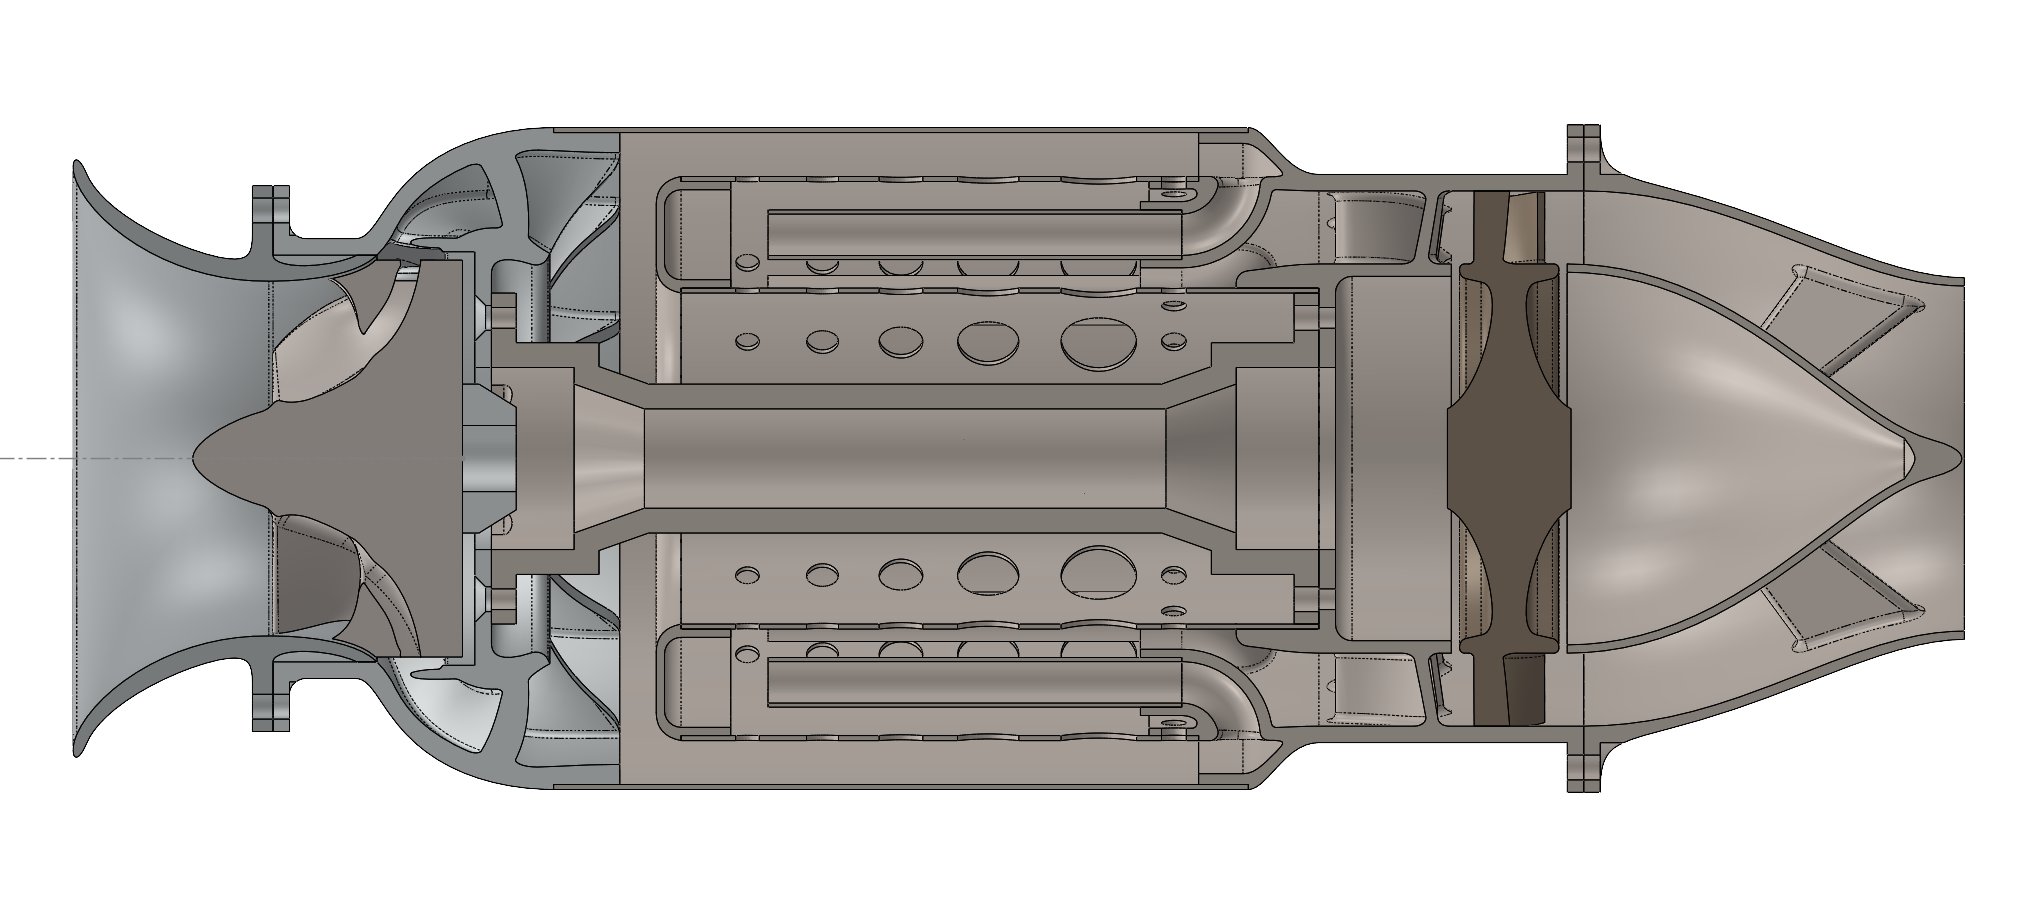
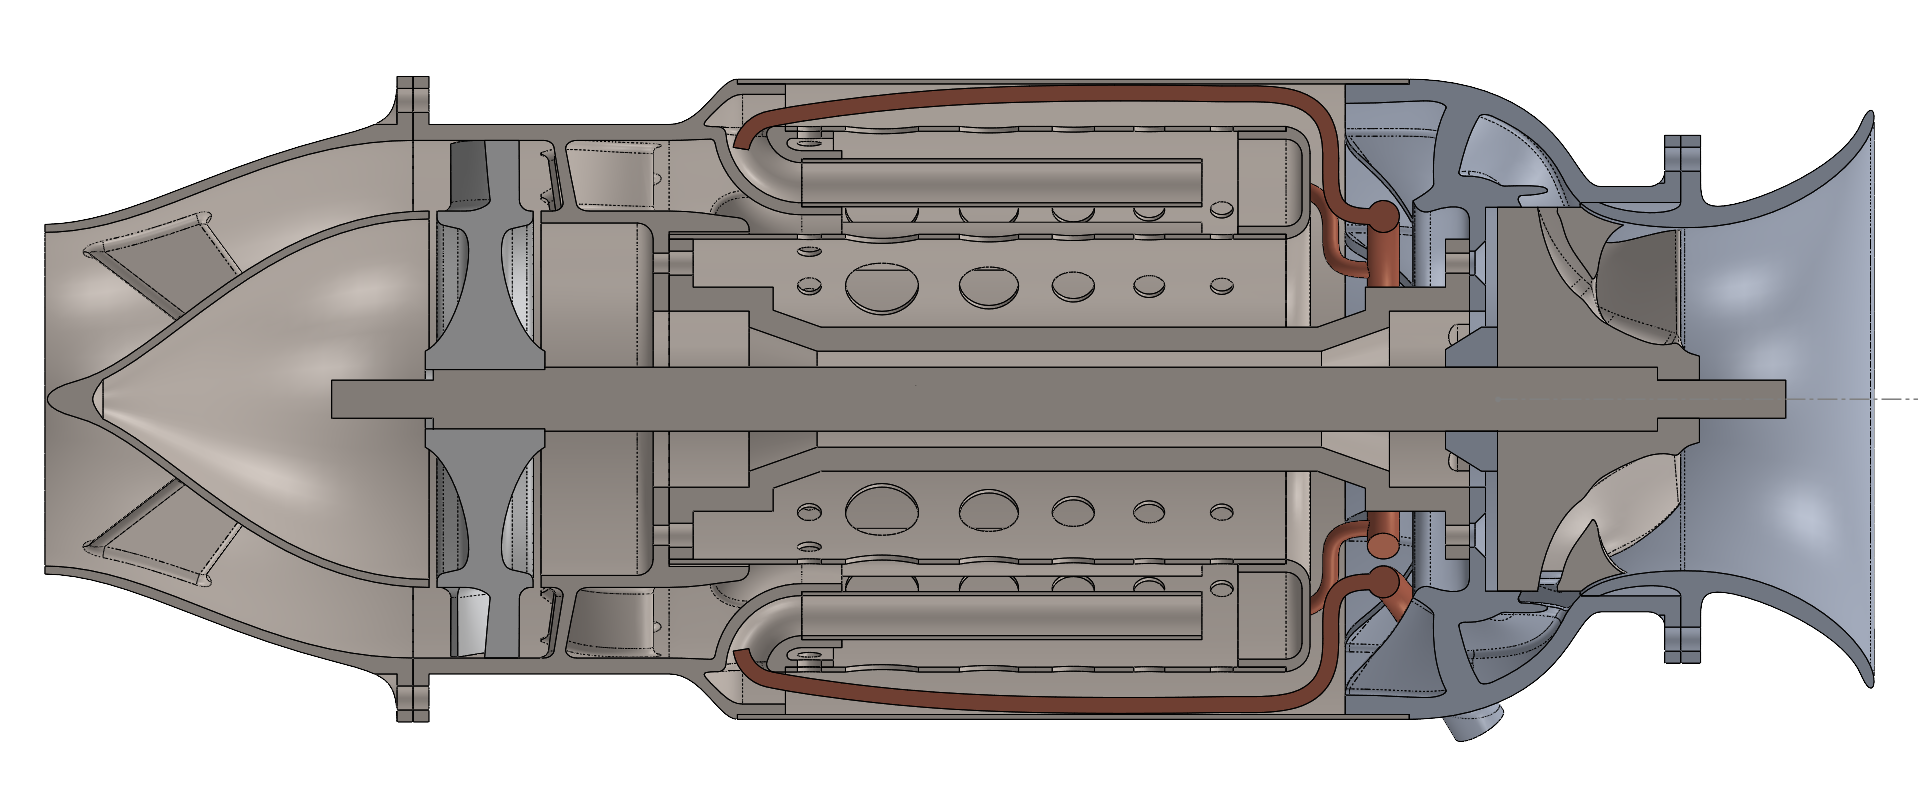
Update images

diff --git a/review.md b/review.md
@@ -64,7 +64,7 @@ Only three constraints were active in the final design, which are bolded
 - Turbine width at most equal to meanline radius
 - Compressor exit radius greater than inlet radius
 - Compressor inlet angle at most 70 degrees
-- **Compressor mach calculated at exit at most 0.8 (calculated in** stationary frame)
+- **Compressor mach calculated at exit at most 0.8** (calculated in stationary frame)
 - Stator exit mach at most 0.7
 - Stator leaving angle at most 70 degrees
 - Turbine inlet angle at most 65 degrees
@@ -276,7 +276,7 @@ I don't know a lot about bearings so I've included them here. There are two bear
 
 https://www.ebay.com/itm/354996682357
 
-I also have a cooling system - air from behind the compressor flows into the shaft tunnel through three tangential holes in the shaft tunnel, and a lubricant line is fed through the fourth remaining hole. The idea is that air and lubricant will flow through the shaft tunnel and through the bearings, since the other end of the shaft tunnel opens into the stator exit which is at a lower pressure (there are equalization holes to allow the pressure in the small space behind the compressor to be equal to the compressor stagnation pressure). The main uncertainty I have here is whether this will work. 
+I also have a cooling system - air from behind the compressor flows into the shaft tunnel through three tangential holes in the shaft tunnel, and a lubricant line is fed through the fourth remaining hole. The idea is that air and lubricant will flow through the shaft tunnel and through the bearings, since the other end of the shaft tunnel opens into the stator exit which is at a lower pressure. There are equalization holes to allow the pressure in the small space behind the compressor to be equal to the compressor stagnation pressure, and the compressor outer rim will be machined to within 0.1mm of the diffuser housing to prevent excessive leakage. The main uncertainty I have here is whether this will work. I am particularly worried that air will leak from the space behind the compressor and leak into the compressor exit, impacting mass flow or reversing the airflow through the shaft tunnel. Currently the tight clearance around the compressor edge is all that really prevents this. The stagnation pressure is around 1.68 bar, compressor exit pressure is 1.10 bar, and stator exit pressure is 1.30 bar.
 
 I've also noticed that most rc jets mix lubricant into the fuel and then use the same mixture both for the bearings and for combustion - is there any benefit to this besides simplifying plumbing? I'm planning on running a separate pure lubricant line directly to the bearings.
 
@@ -286,7 +286,7 @@ I've also noticed that most rc jets mix lubricant into the fuel and then use the
 
 ## Combustion chamber
 
-The combustion chamber will be made using 0.5mm thick 316 steel sheet. I'm mostly concerned about the air hole pattern and the evap tube design.
+The combustion chamber will be made using 0.5mm thick 316 steel sheet. It is a standard evap tube design - fuel will be injected into the base of the tubes through 1mm copper tubing, hit the wall of the evap tube, vaporize, and flow into the combustion chamber. I'm mostly concerned about the air hole pattern and the evap tube design.
 
 The idea with the air hole pattern was to deliver air directly to each of the 8 evap tube fuel injectors, and to dilute the air with progressively larger diameter holes to ensure that the combustor walls are not exposed to a very high temperature. There is also a ring of 3mm dilution holes around the bottom, with the intention being to protect the stagnation points on the evap tube holders and stators. The hole pattern is mostly done by eye based on existing designs which is why I'm concerned.
 
